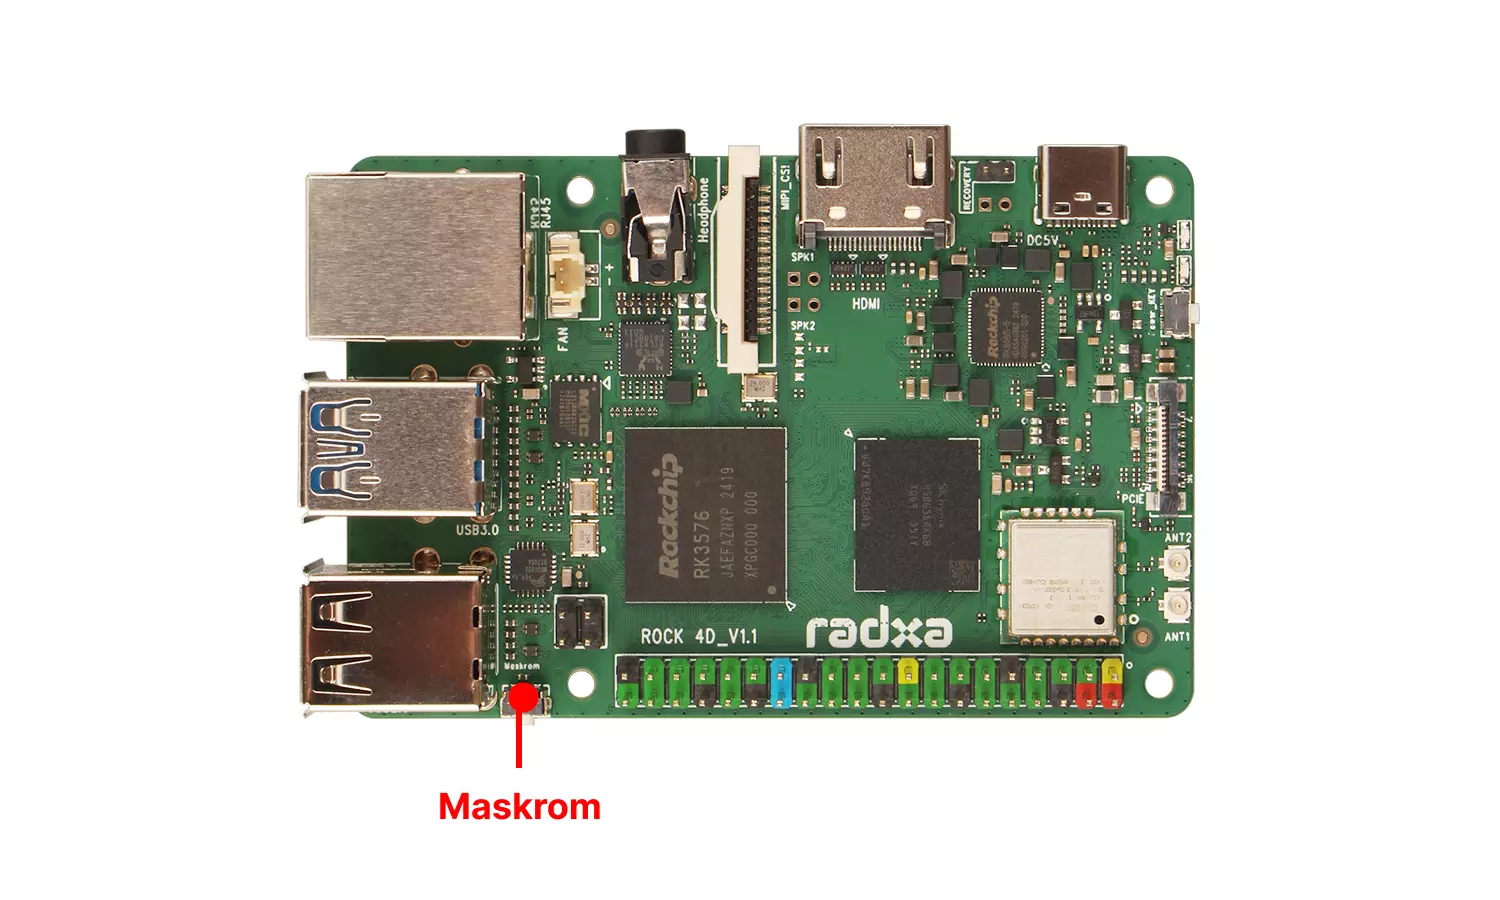
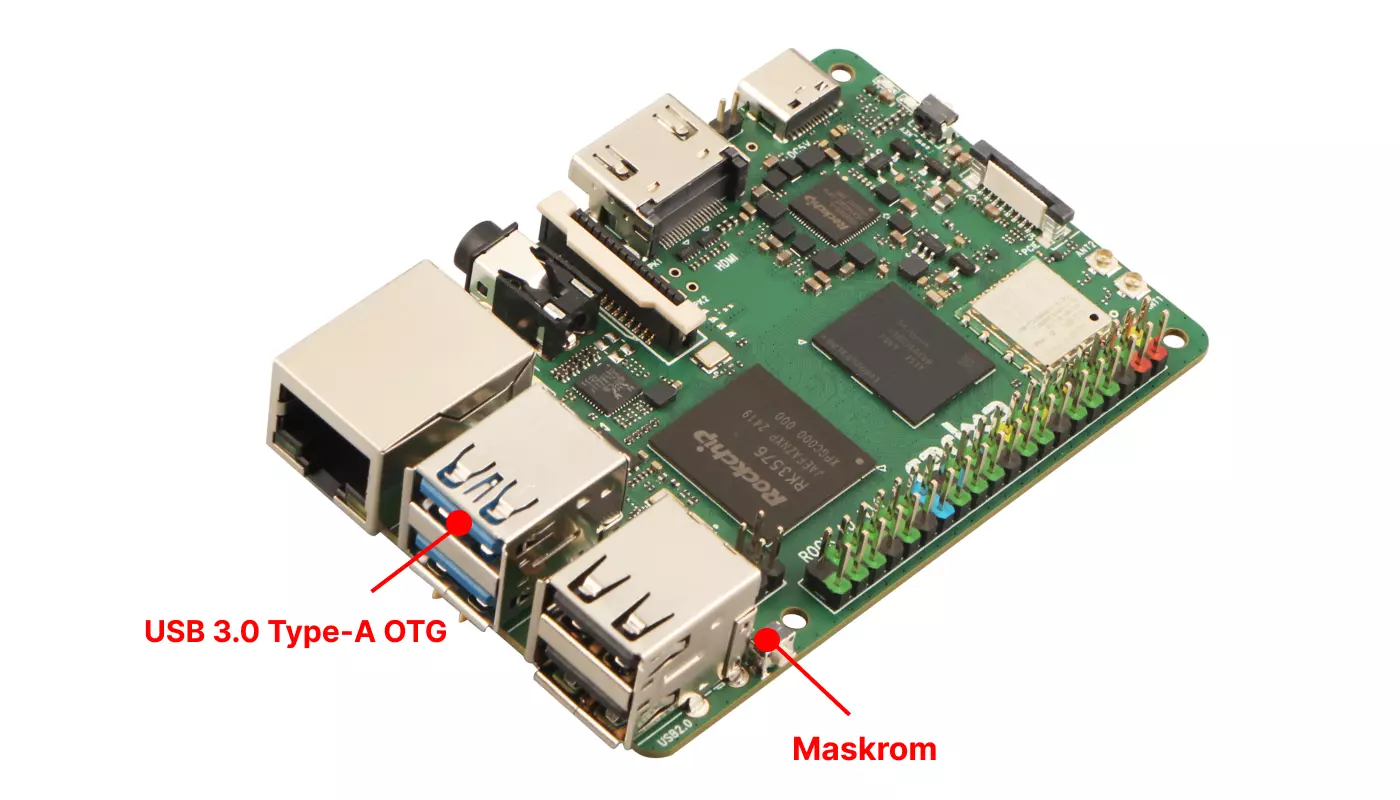
fix: modify rock4d to maskrom mode step

diff --git a/i18n/en/docusaurus-plugin-content-docs/current/rock4/rock4d/hardware-use/maskrom.md b/i18n/en/docusaurus-plugin-content-docs/current/rock4/rock4d/hardware-use/maskrom.md
@@ -7,16 +7,16 @@ sidebar_position: 4
 The Radxa ROCK 4D features an onboard Maskrom button for entering Maskrom mode.
 
 <div style={{textAlign: 'center'}}>
-  <img src="/img/rock4/4d/rock4d-maskrom.webp" style={{width: '100%', maxWidth: '1200px'}} alt="ROCK 4D Maskrom Button Location" />
+  <img src="/en/img/rock4/4d/rock4d-maskrom.webp" style={{width: '100%', maxWidth: '1200px'}} alt="ROCK 4D Maskrom Button Location" />
 </div>
 
 ## User Guide
 
 ### Entering Maskrom Mode
 
-1. Press and hold the Maskrom button
-2. Power on the board while holding the button
-3. Release the button after power is applied
+1. Before powering on the motherboard, press and hold the Maskrom button. You can release the button after power is on.
+
+2. Use a USB cable to connect the motherboard's USB 3.0 Type-A OTG port to your computer's port.
 
 ### Verifying Device Mode
 
@@ -33,7 +33,7 @@ Normally, the RKDevTool software will automatically detect the ROCK 4D board's c
 <TabItem value="Windows">
 Open the RKDevTool software to view the detected device information:
 <div style={{textAlign: 'center'}}>
-<img src="/img/rock4/4d/maskrom-mode.webp" style={{width: '100%', maxWidth: '1200px'}} alt="RKDevTool Detecting Maskrom Mode" />
+<img src="/en/img/rock4/4d/maskrom-mode.webp" style={{width: '100%', maxWidth: '1200px'}} alt="RKDevTool Detecting Maskrom Mode" />
 </div>
 
 </TabItem>

diff --git a/docs/rock4/rock4d/hardware-use/maskrom.md b/docs/rock4/rock4d/hardware-use/maskrom.md
@@ -14,7 +14,9 @@ sidebar_position: 4
 
 ### 进入 Maskrom 模式
 
-主板上电前，按住 Maskrom 按键，上电后可以松开按键。
+① : 主板上电前，按住 Maskrom 按键，上电后可以松开按键
+
+② : 使用数据线连接主板的 USB 3.0 Type-A OTG 端口和电脑的端口
 
 ### 验证设备模式
 
